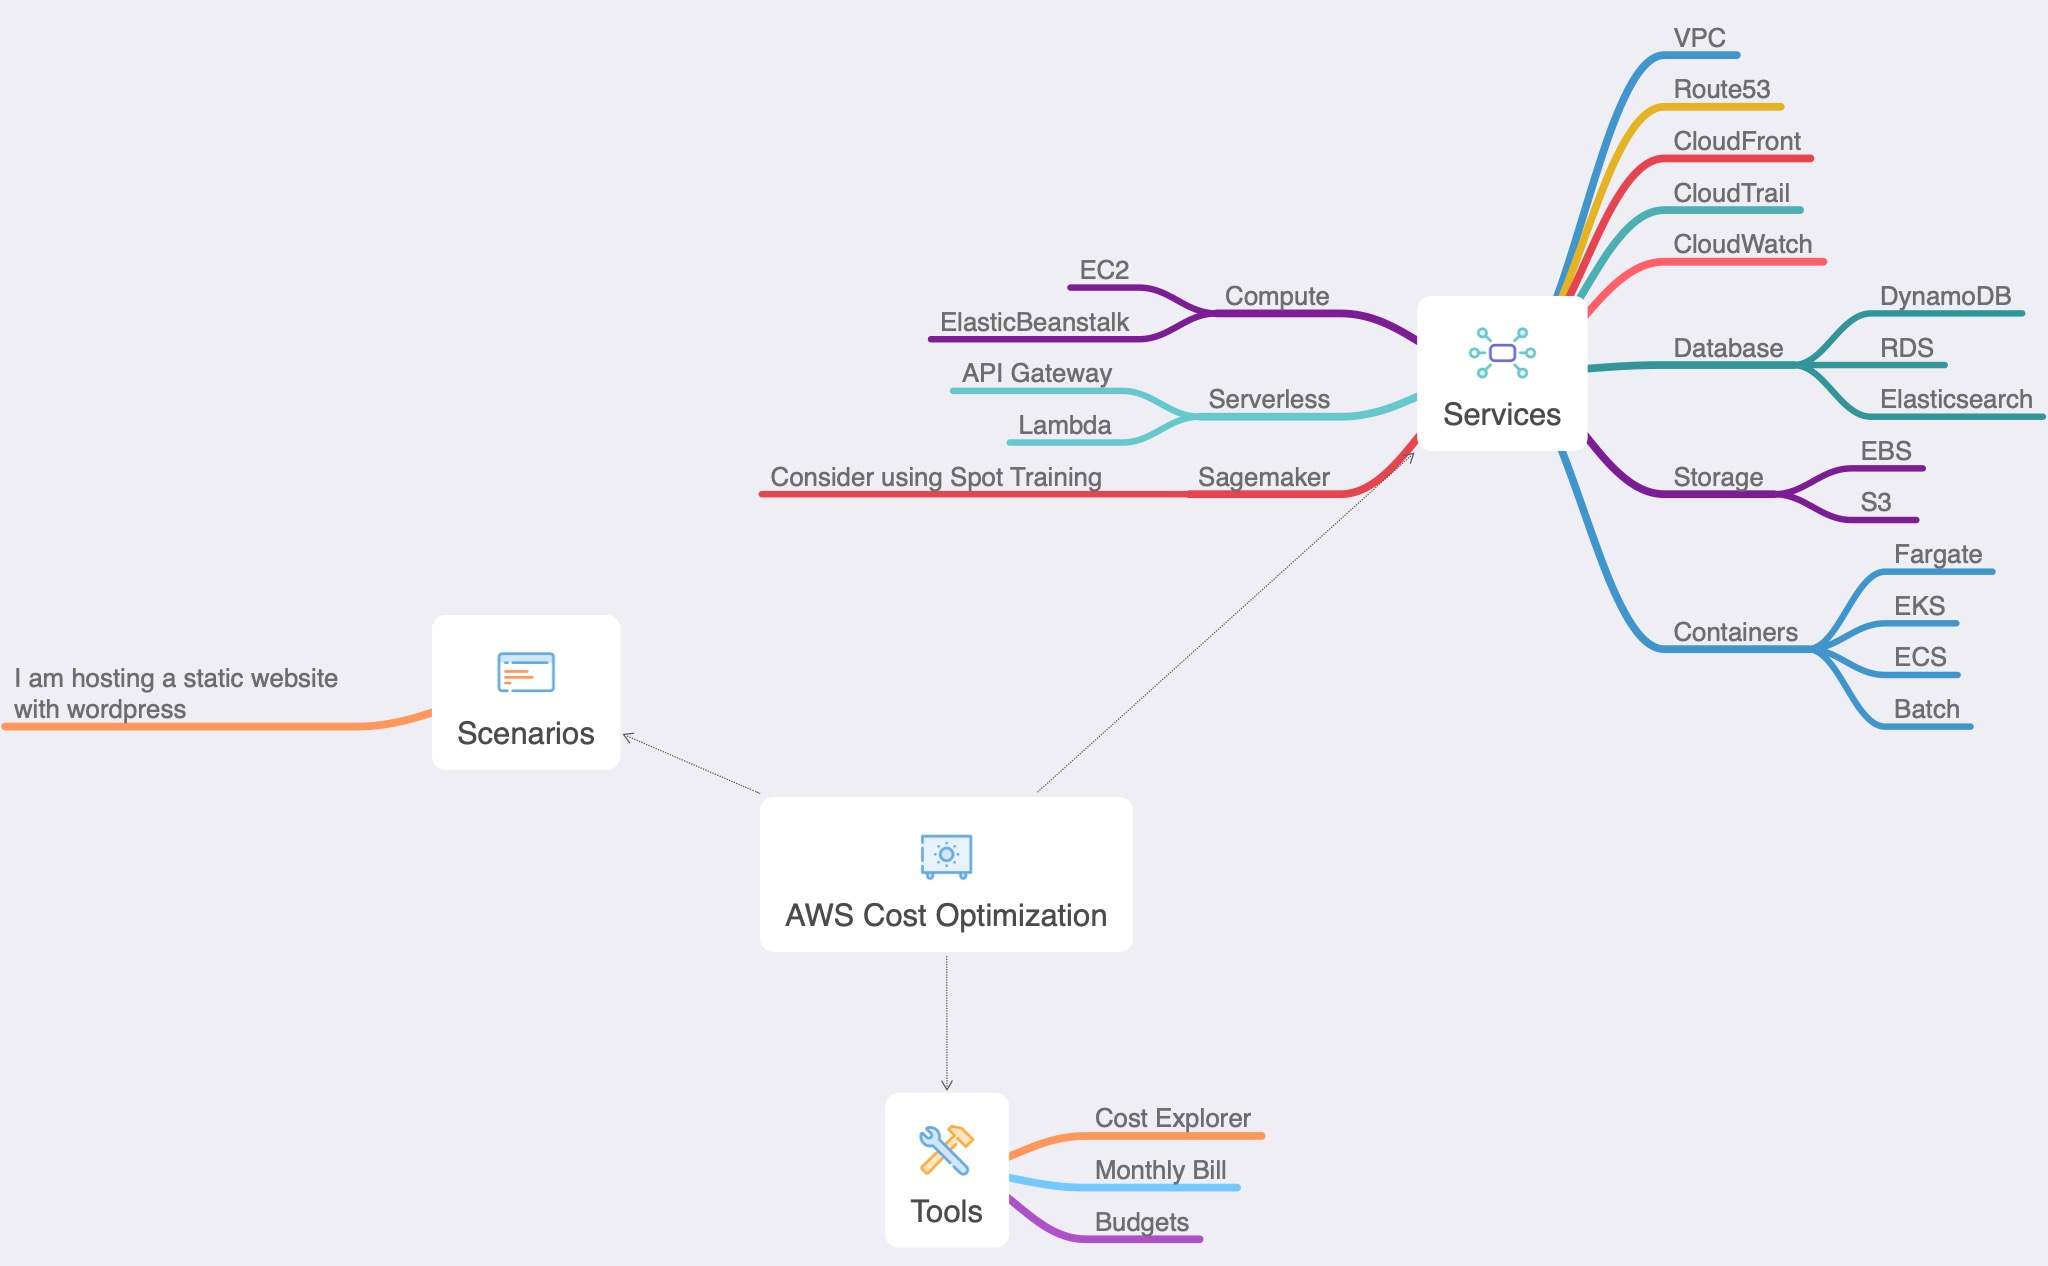
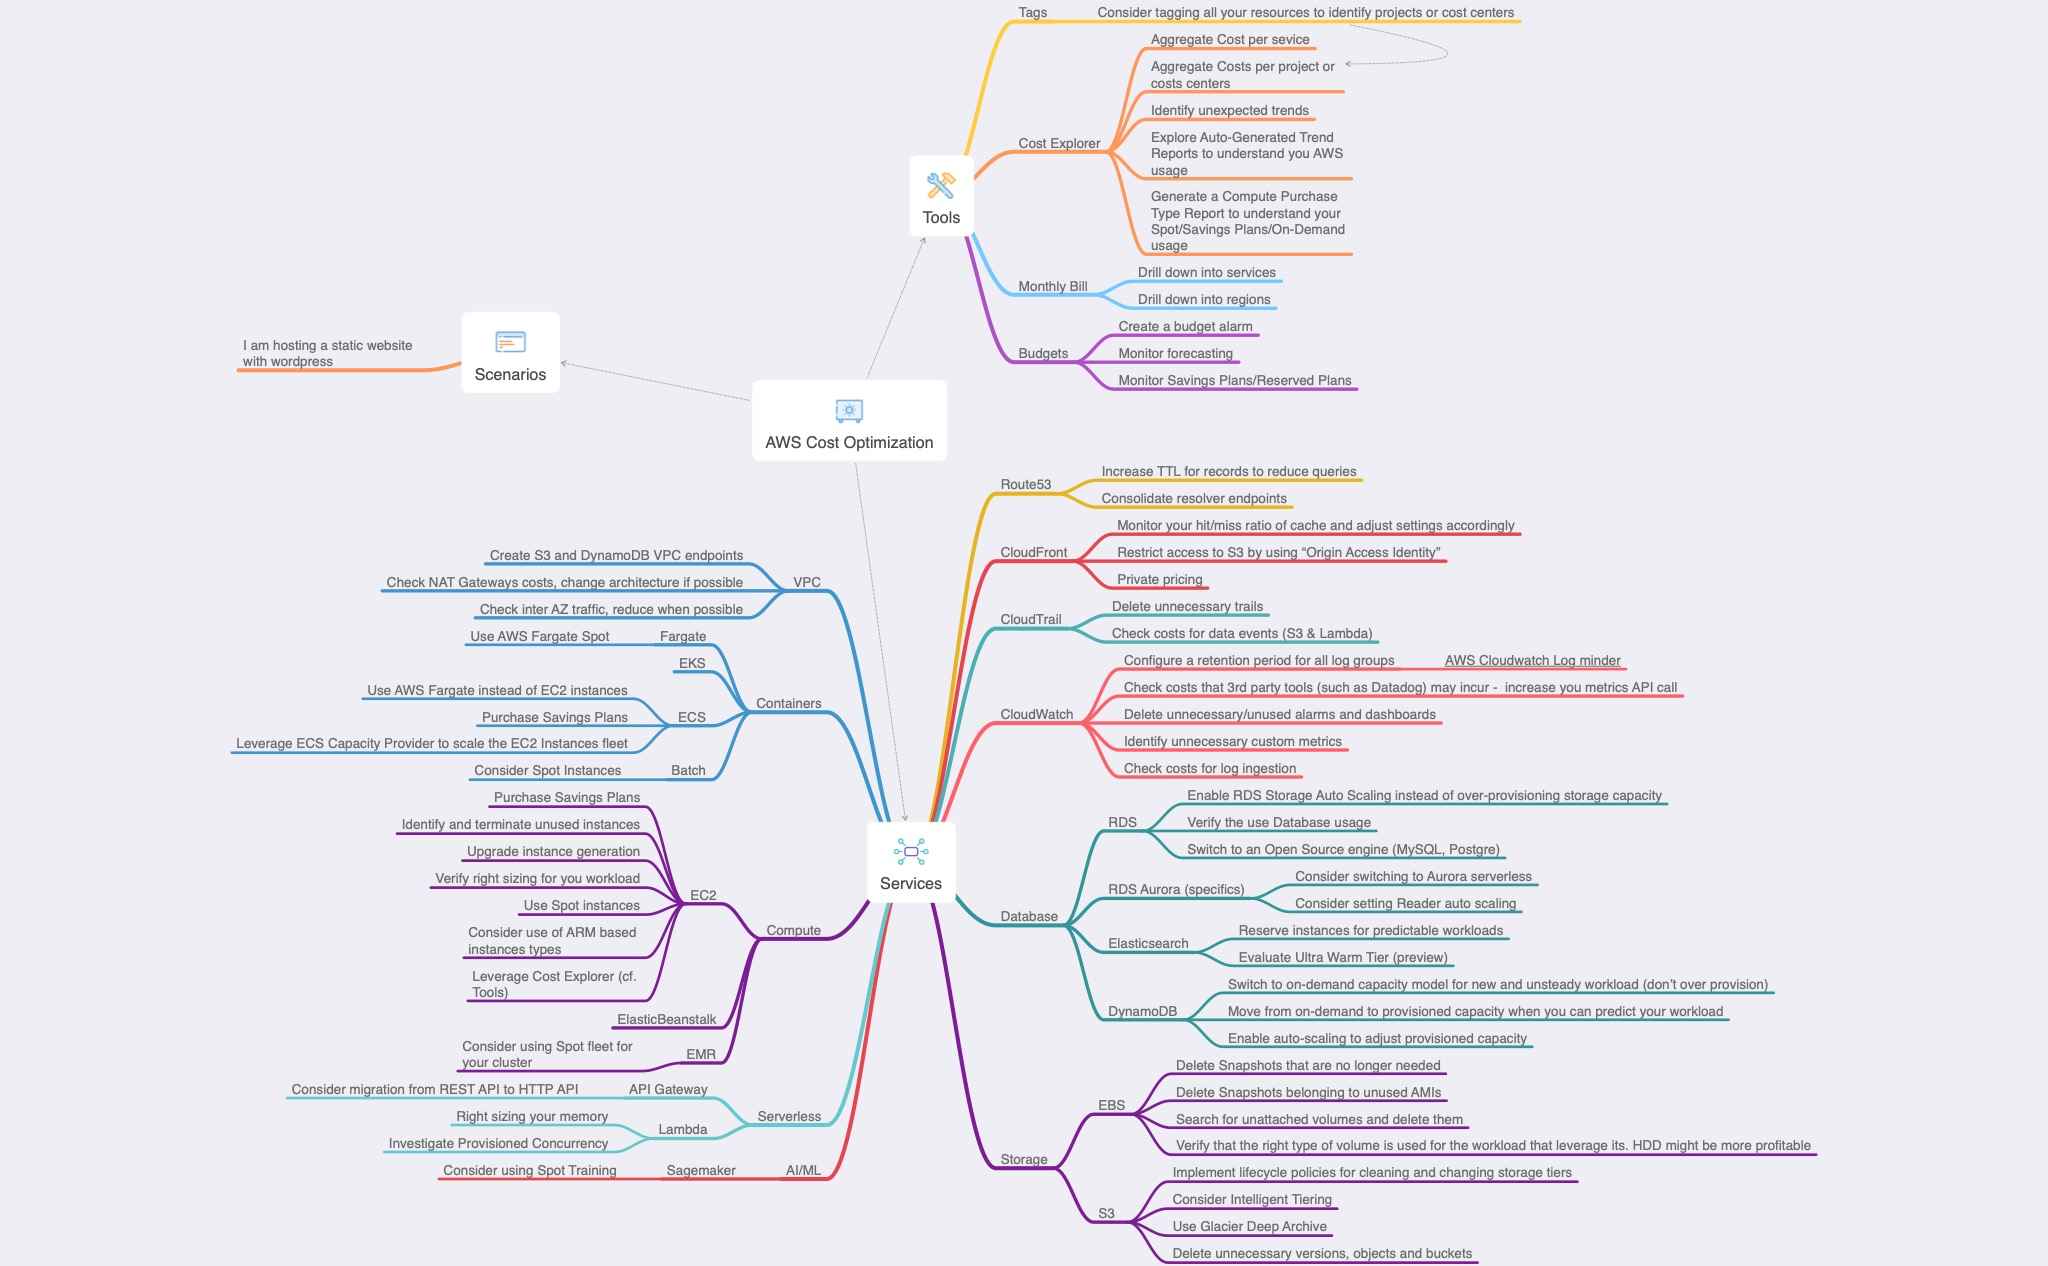
WIP Cost optimization

diff --git a/content/docs/architecture-and-infrastructure/aws/_index.md b/content/docs/architecture-and-infrastructure/aws/_index.md
@@ -3,3 +3,7 @@
 This section needs to be completed.
 
 Please contact me if you need further information.
+
+## Cost Optimization
+
+This mindmap idea was inspired by [Cloudonaut](https://cloudonaut.io/aws-cost-optimization-101/) and feed by several years of AWS cost optimization for myself and my customers.
